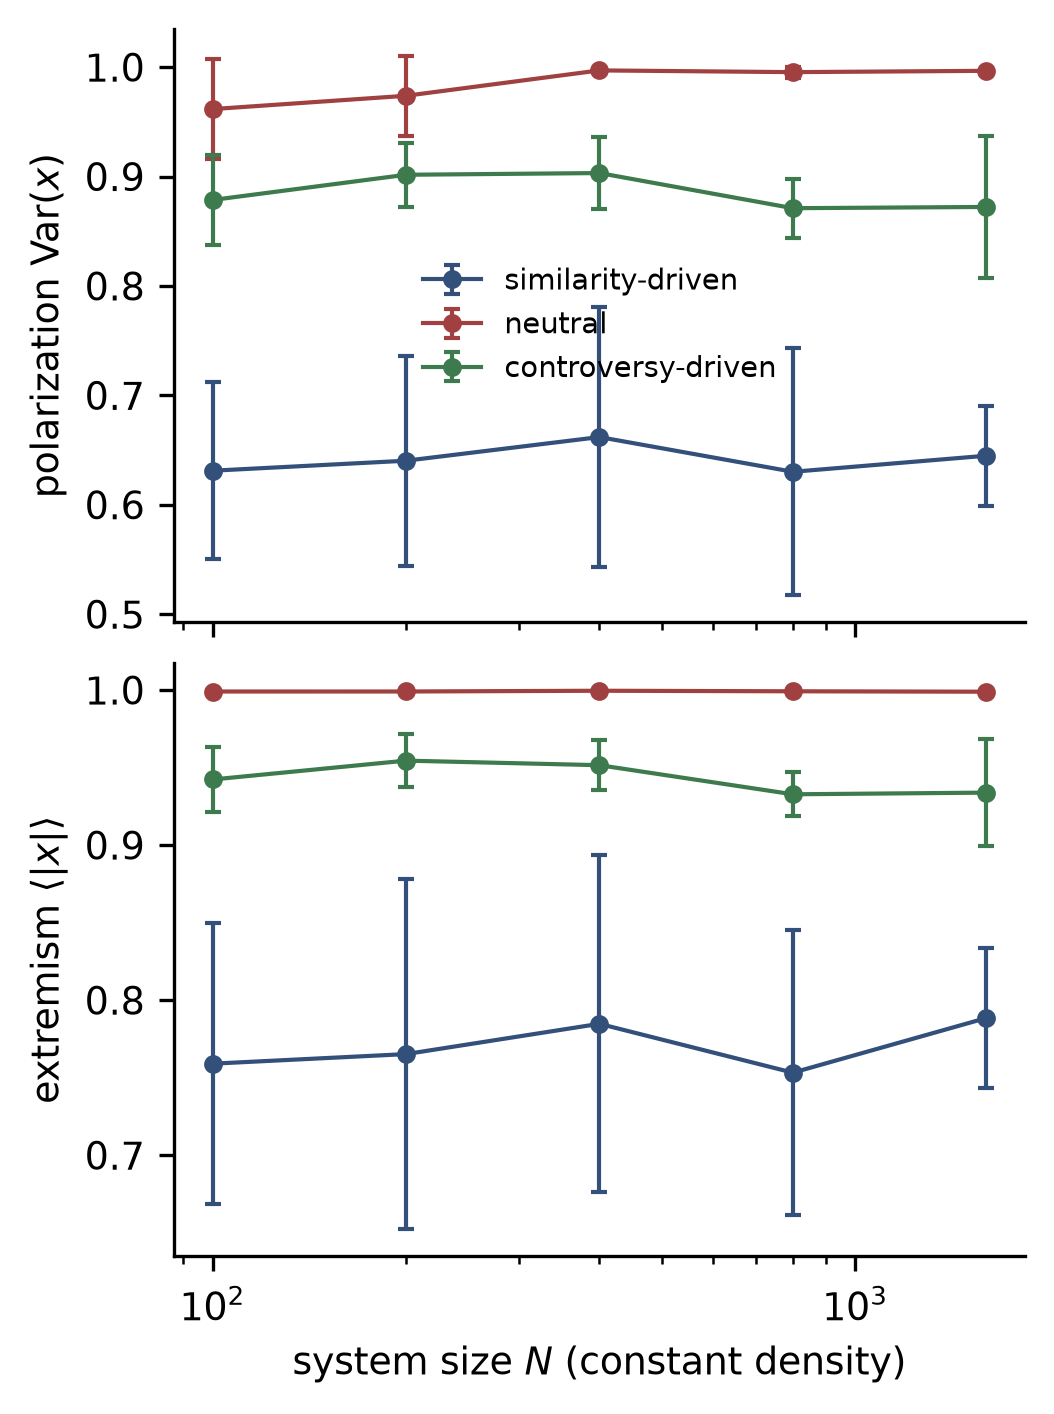
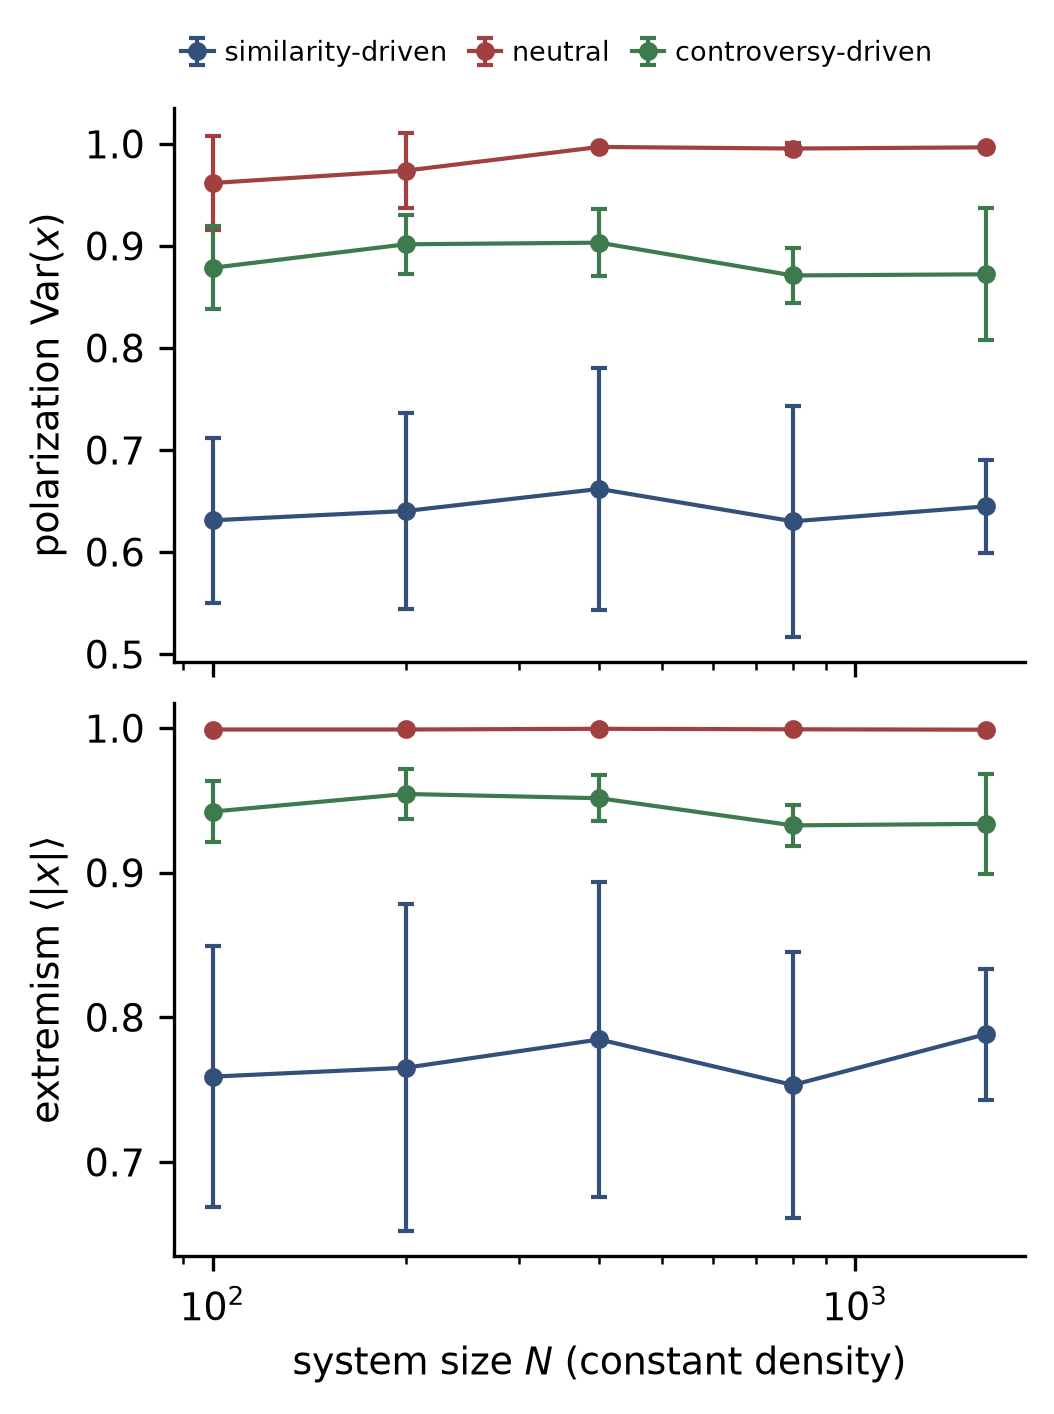
Move N-scaling figure legend outside plot area

diff --git a/scripts/exp6b_nscaling.py b/scripts/exp6b_nscaling.py
@@ -78,7 +78,10 @@ def main():
         ax.set_xscale("log")
         ax.set_ylabel(label)
     axes[1].set_xlabel("system size $N$ (constant density)")
-    axes[0].legend(frameon=False, fontsize=7)
+    # single row above the top panel, outside the plot area
+    axes[0].legend(frameon=False, fontsize=6.5, loc="lower left",
+                   bbox_to_anchor=(-0.02, 1.03), ncols=3,
+                   columnspacing=0.8, handlelength=1.2, handletextpad=0.4)
     save_fig(fig, "fig6b_nscaling")
 
 
